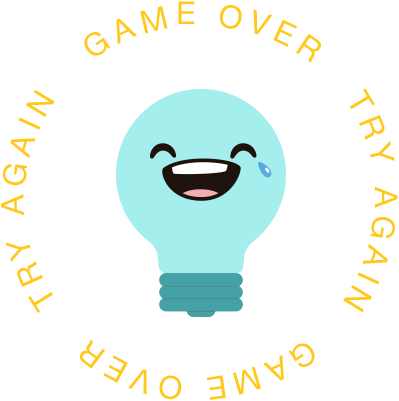
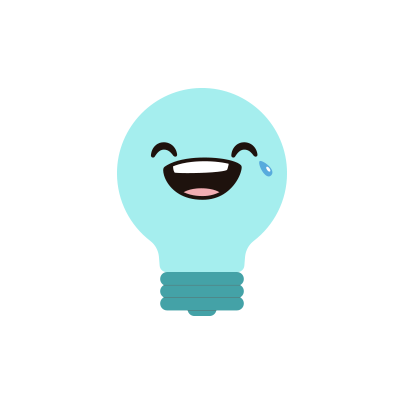
update labels

diff --git a/core/src/com/pocket/rocket/broken/screens/GameOverScreen.java b/core/src/com/pocket/rocket/broken/screens/GameOverScreen.java
@@ -16,21 +16,21 @@ import com.pocket.rocket.broken.actors.ImageActor;
 import static com.pocket.rocket.broken.AssetLoader.getBonus;
 import static com.pocket.rocket.broken.AssetLoader.getFont;
 import static com.pocket.rocket.broken.AssetLoader.getGameOverLabel;
+import static com.pocket.rocket.broken.AssetLoader.getGameOverText;
 import static com.pocket.rocket.broken.Constants.BASIC_bonus_SCORE;
 import static com.pocket.rocket.broken.Constants.HEIGHT;
-import static com.pocket.rocket.broken.Constants.WIDTH;
 import static com.pocket.rocket.broken.Constants.X_CENTER;
-import static com.pocket.rocket.broken.screens.MenuScreen.LOGO_WIDTH;
+import static com.pocket.rocket.broken.Utils.buildLogo;
 import static com.pocket.rocket.broken.screens.MenuScreen.MENU_BUTTON_HEIGHT;
 import static com.pocket.rocket.broken.screens.MenuScreen.MENU_BUTTON_WIDTH;
 import static com.pocket.rocket.broken.screens.MenuScreen.X_MENU_BUTTON_POSITION;
 import static java.lang.String.valueOf;
 
-public class ResultScreen extends BaseScreen {
+public class GameOverScreen extends BaseScreen {
 
     private boolean canBeClose = false;
 
-    public ResultScreen(final Main main, int score, int bonusCollected, int time) {
+    public GameOverScreen(final Main main, int score, int bonusCollected, int time) {
         super(main);
         score += time * 3;
         score += bonusCollected * BASIC_bonus_SCORE;
@@ -49,7 +49,7 @@ public class ResultScreen extends BaseScreen {
     private Group buildResult(int score, int bonusCollected, int time) {
         final Group resultGroup = new Group();
 
-        resultGroup.addActor(new ImageActor((WIDTH - LOGO_WIDTH) / 2, HEIGHT - LOGO_WIDTH - 100, LOGO_WIDTH, LOGO_WIDTH, getGameOverLabel()));
+        resultGroup.addActor(buildLogo(getGameOverText(), getGameOverLabel()));
         resultGroup.addActor(bestResultLabel());
 
         buildResultData(resultGroup, X_CENTER - 250, "Time", valueOf(time));
@@ -91,7 +91,7 @@ public class ResultScreen extends BaseScreen {
                     Timer.schedule(new Timer.Task() {
                         @Override
                         public void run() {
-                            main.setScreen(new GameScreen(main));
+                            main.setScreen(new MainGameScreen(main));
                         }
                     }, 0.25f);
                 }

diff --git a/core/src/com/pocket/rocket/broken/screens/menu/MainMenuButtons.java b/core/src/com/pocket/rocket/broken/screens/menu/MainMenuButtons.java
@@ -9,8 +9,7 @@ import com.badlogic.gdx.scenes.scene2d.utils.ClickListener;
 import com.badlogic.gdx.utils.Align;
 import com.pocket.rocket.broken.AssetLoader;
 import com.pocket.rocket.broken.Main;
-import com.pocket.rocket.broken.actors.ImageActor;
-import com.pocket.rocket.broken.screens.GameScreen;
+import com.pocket.rocket.broken.screens.MainGameScreen;
 import com.pocket.rocket.broken.screens.tutorial.TutorialScreen;
 
 import static com.badlogic.gdx.utils.Timer.Task;
@@ -19,7 +18,6 @@ import static com.pocket.rocket.broken.AssetLoader.getFont;
 import static com.pocket.rocket.broken.Constants.HEIGHT;
 import static com.pocket.rocket.broken.Constants.WIDTH;
 import static com.pocket.rocket.broken.Preference.getTotalScore;
-import static com.pocket.rocket.broken.screens.MenuScreen.LOGO_WIDTH;
 import static com.pocket.rocket.broken.screens.MenuScreen.MENU_BUTTON_HEIGHT;
 import static com.pocket.rocket.broken.screens.MenuScreen.MENU_BUTTON_WIDTH;
 import static com.pocket.rocket.broken.screens.MenuScreen.MENU_SWITCH_TIME;
@@ -33,7 +31,6 @@ public class MainMenuButtons extends Group {
     private final Group settings;
 
     public MainMenuButtons(final Main main, final Group menuGroup) {
-        addActor(new ImageActor((WIDTH - LOGO_WIDTH) / 2, HEIGHT - LOGO_WIDTH - 100, LOGO_WIDTH, LOGO_WIDTH, AssetLoader.getLogoLabel()));
         this.main = main;
         this.menuGroup = menuGroup;
 
@@ -61,7 +58,7 @@ public class MainMenuButtons extends Group {
                     @Override
                     public void run() {
                         if (getTotalScore() > 1) {
-                            main.setScreen(new GameScreen(main));
+                            main.setScreen(new MainGameScreen(main));
                         } else {
                             main.setScreen(new TutorialScreen(main));
                         }

diff --git a/core/src/com/pocket/rocket/broken/screens/MenuScreen.java b/core/src/com/pocket/rocket/broken/screens/MenuScreen.java
@@ -10,9 +10,12 @@ import com.pocket.rocket.broken.screens.menu.MainMenuButtons;
 import com.pocket.rocket.broken.screens.menu.MenuIcons;
 
 import static com.pocket.rocket.broken.AssetLoader.getFont;
+import static com.pocket.rocket.broken.AssetLoader.getLogoLabel;
+import static com.pocket.rocket.broken.AssetLoader.getLogoText;
 import static com.pocket.rocket.broken.Constants.X_CENTER;
 import static com.pocket.rocket.broken.Preference.getScore;
 import static com.pocket.rocket.broken.Preference.getTotalScore;
+import static com.pocket.rocket.broken.Utils.buildLogo;
 import static java.lang.String.valueOf;
 
 public class MenuScreen extends BaseScreen {
@@ -22,21 +25,20 @@ public class MenuScreen extends BaseScreen {
     public static final int MENU_BUTTON_HEIGHT = 210;
     public static final int Y_MENU_BUTTON = 445;
     public static final int X_MENU_BUTTON_POSITION = X_CENTER - MENU_BUTTON_WIDTH / 2;
-    public static final int LOGO_WIDTH = 400;
+    public static final int LOGO_SIZE = 400;
 
     public MenuScreen(final Main main, boolean fade) {
         super(main);
 
         Group menu = new Group();
+
         if (Preference.getScore() > 0) {
             menu.addActor(new MenuIcons(main));
         }
+
+        menu.addActor(buildLogo(getLogoText(), getLogoLabel()));
         menu.addActor(buildScoreLabel());
         menu.addActor(new MainMenuButtons(main, menu));
-
-        //Gallery gallery = new Gallery();
-        //menu.addActor(new AdvancedMenu(main, menu, gallery));
-        //menu.addActor(gallery);
 
         addActor(menu);
 

diff --git a/core/src/com/pocket/rocket/broken/AssetLoader.java b/core/src/com/pocket/rocket/broken/AssetLoader.java
@@ -39,7 +39,9 @@ public class AssetLoader implements Disposable {
     private static final String HEADER = "header.png";
 
     private static final String LOGO_LABEL = "labels/logo.png";
+    private static final String LOGO_TEXT = "labels/logo2.png";
     private static final String GAME_OVER_LABEL = "labels/game_over.png";
+    private static final String GAME_OVER_LABEL_TEXT = "labels/game_over2.png";
 
     private static final String ADS = "elements/icons/ads.png";
     private static final String NO_ADS = "elements/icons/no_ads.png";
@@ -122,7 +124,9 @@ public class AssetLoader implements Disposable {
 
     private static void loadLabels() {
         assetManager.load(LOGO_LABEL, Texture.class);
+        assetManager.load(LOGO_TEXT, Texture.class);
         assetManager.load(GAME_OVER_LABEL, Texture.class);
+        assetManager.load(GAME_OVER_LABEL_TEXT, Texture.class);
     }
 
     private static void loadIcons() {
@@ -228,6 +232,10 @@ public class AssetLoader implements Disposable {
         return assetManager.get(LOGO_LABEL);
     }
 
+    public static Texture getLogoText() {
+        return assetManager.get(LOGO_TEXT);
+    }
+
     public static Texture getGameOverLabel() {
         return assetManager.get(GAME_OVER_LABEL);
     }
@@ -307,6 +315,10 @@ public class AssetLoader implements Disposable {
 
     public static Texture getActiveLanguage() {
         return assetManager.get(ACTIVE_LANGUAGE);
+    }
+
+    public static Texture getGameOverText() {
+        return assetManager.get(GAME_OVER_LABEL_TEXT);
     }
 
     @Override

diff --git a/core/src/com/pocket/rocket/broken/screens/MainGameScreen.java b/core/src/com/pocket/rocket/broken/screens/MainGameScreen.java
@@ -31,7 +31,7 @@ import static com.pocket.rocket.broken.enums.LightBulbPosition.LEFT;
 import static com.pocket.rocket.broken.enums.LightBulbPosition.RIGHT;
 import static java.util.Collections.shuffle;
 
-public class GameScreen extends BaseScreen {
+public class MainGameScreen extends BaseScreen {
     private final Group gameActors;
     private final ScoreActor scoreActor;
     private final BonusBuilder bonusBuilder;
@@ -45,7 +45,7 @@ public class GameScreen extends BaseScreen {
     private int previousScore;
     private int previousTime = 5;
 
-    public GameScreen(Main main) {
+    public MainGameScreen(Main main) {
         super(main);
         bonusBuilder = new BonusBuilder(this);
         gameActors = new Group();
@@ -101,7 +101,7 @@ public class GameScreen extends BaseScreen {
 
     private void showResult() {
         gameActors.addAction(Actions.alpha(0, 0.25f));
-        main.setScreen(new ResultScreen(main, scoreActor.getScore(), scoreActor.getbonusCollected(), timer.getTime() < 0 ? 0 : timer.getTime()));
+        main.setScreen(new GameOverScreen(main, scoreActor.getScore(), scoreActor.getbonusCollected(), timer.getTime() < 0 ? 0 : timer.getTime()));
     }
 
     private void activateLamp() {

diff --git a/core/src/com/pocket/rocket/broken/Utils.java b/core/src/com/pocket/rocket/broken/Utils.java
@@ -1,0 +1,26 @@
+package com.pocket.rocket.broken;
+
+import com.badlogic.gdx.graphics.Texture;
+import com.badlogic.gdx.scenes.scene2d.Group;
+import com.badlogic.gdx.scenes.scene2d.actions.Actions;
+import com.pocket.rocket.broken.actors.ImageActor;
+import com.pocket.rocket.broken.actors.LabelActor;
+
+import static com.pocket.rocket.broken.Constants.HEIGHT;
+import static com.pocket.rocket.broken.Constants.WIDTH;
+import static com.pocket.rocket.broken.screens.MenuScreen.LOGO_SIZE;
+
+public class Utils {
+    private Utils() {
+    }
+
+    public static Group buildLogo(Texture text, Texture logo) {
+        Group logoGroup = new Group();
+        logoGroup.setBounds((WIDTH - LOGO_SIZE) / 2, HEIGHT - LOGO_SIZE - 100, LOGO_SIZE, LOGO_SIZE);
+        logoGroup.addActor(new ImageActor(0, 0, LOGO_SIZE, LOGO_SIZE, logo));
+        LabelActor actor = new LabelActor(0, 0, LOGO_SIZE, LOGO_SIZE, text);
+        actor.addAction(Actions.rotateTo(360 * 100, 35 * 100));
+        logoGroup.addActor(actor);
+        return logoGroup;
+    }
+}

diff --git a/core/src/com/pocket/rocket/broken/screens/tutorial/TutorialScreen.java b/core/src/com/pocket/rocket/broken/screens/tutorial/TutorialScreen.java
@@ -12,7 +12,7 @@ import com.pocket.rocket.broken.enums.LampLogic;
 import com.pocket.rocket.broken.enums.LightBulbPosition;
 import com.pocket.rocket.broken.enums.LightBulbStatus;
 import com.pocket.rocket.broken.screens.BaseScreen;
-import com.pocket.rocket.broken.screens.ResultScreen;
+import com.pocket.rocket.broken.screens.GameOverScreen;
 import com.pocket.rocket.broken.screens.tutorial.steps.StepManager;
 
 import java.util.ArrayList;
@@ -59,7 +59,7 @@ public class TutorialScreen extends BaseScreen {
 
     private void showResult() {
         gameActors.addAction(Actions.alpha(0, 0.25f));
-        main.setScreen(new ResultScreen(main, 0, scoreActor.getbonusCollected(), 0));
+        main.setScreen(new GameOverScreen(main, 0, scoreActor.getbonusCollected(), 0));
     }
 
     private Group createLamps() {

diff --git a/core/src/com/pocket/rocket/broken/actors/LabelActor.java b/core/src/com/pocket/rocket/broken/actors/LabelActor.java
@@ -1,0 +1,22 @@
+package com.pocket.rocket.broken.actors;
+
+import com.badlogic.gdx.graphics.Texture;
+import com.badlogic.gdx.graphics.g2d.Batch;
+import com.badlogic.gdx.graphics.g2d.TextureRegion;
+import com.badlogic.gdx.scenes.scene2d.Actor;
+
+public class LabelActor extends Actor {
+
+    private final TextureRegion textTextureRegion;
+
+    public LabelActor(int xPosition, int yPosition, int width, int height, Texture textTexture) {
+        this.textTextureRegion = new TextureRegion(textTexture);
+        setBounds(xPosition, yPosition, width, height);
+    }
+
+    @Override
+    public void draw(Batch batch, float parentAlpha) {
+        batch.draw(textTextureRegion, getX() / 2, getY() / 2, getWidth() / 2, getHeight() / 2, getWidth(),
+                getHeight(), 1, 1, getRotation());
+    }
+}

diff --git a/core/src/com/pocket/rocket/broken/screens/menu/MenuIcons.java b/core/src/com/pocket/rocket/broken/screens/menu/MenuIcons.java
@@ -22,11 +22,8 @@ public class MenuIcons extends Group {
     private static final int ICON_SIZE = 100;
     private static final int ICON_GROUP_WIDTH = WIDTH + ICON_SIZE / 2;
     private final PlayServices playServices;
-    private Main main;
-    private ImageActor serviceIcon;
 
     public MenuIcons(final Main main) {
-        this.main = main;
         playServices = main.getPlayServices();
         setBounds(-ICON_SIZE / 4, 90, ICON_GROUP_WIDTH, ICON_SIZE);
 

diff --git a/core/src/com/pocket/rocket/broken/actors/BonusBuilder.java b/core/src/com/pocket/rocket/broken/actors/BonusBuilder.java
@@ -12,7 +12,7 @@ public class BonusBuilder {
     private final Stage stage;
     private int clickToCreate = random(MIN_CLICK_FOR_BONUS, MAX_CLICK_FOR_BONUS);
     private int clickCount = 0;
-    private float bonusVelocity = random(3f, 5.3f);
+    private float bonusVelocity = random(2.8f, 5f);
 
     public BonusBuilder(Stage stage) {
         this.stage = stage;

diff --git a/core/src/com/pocket/rocket/broken/screens/BaseScreen.java b/core/src/com/pocket/rocket/broken/screens/BaseScreen.java
@@ -19,7 +19,7 @@ public class BaseScreen extends Stage implements Screen {
         super(new FitViewport(WIDTH, HEIGHT));
         this.main = main;
         addActor(new ImageActor(0, 0, WIDTH, HEIGHT, getBackGround()));
-        setDebugAll(true);
+        //setDebugAll(true);
         Gdx.input.setInputProcessor(this);
     }
 

diff --git a/core/src/com/pocket/rocket/broken/Main.java b/core/src/com/pocket/rocket/broken/Main.java
@@ -16,7 +16,7 @@ public class Main extends Game {
     public void create() {
         setScreen(new SplashScreen(this));
         //AssetLoader.initialize();
-        //setScreen(new GameScreen(this));
+        //setScreen(new MainGameScreen(this));
     }
 
     @Override
